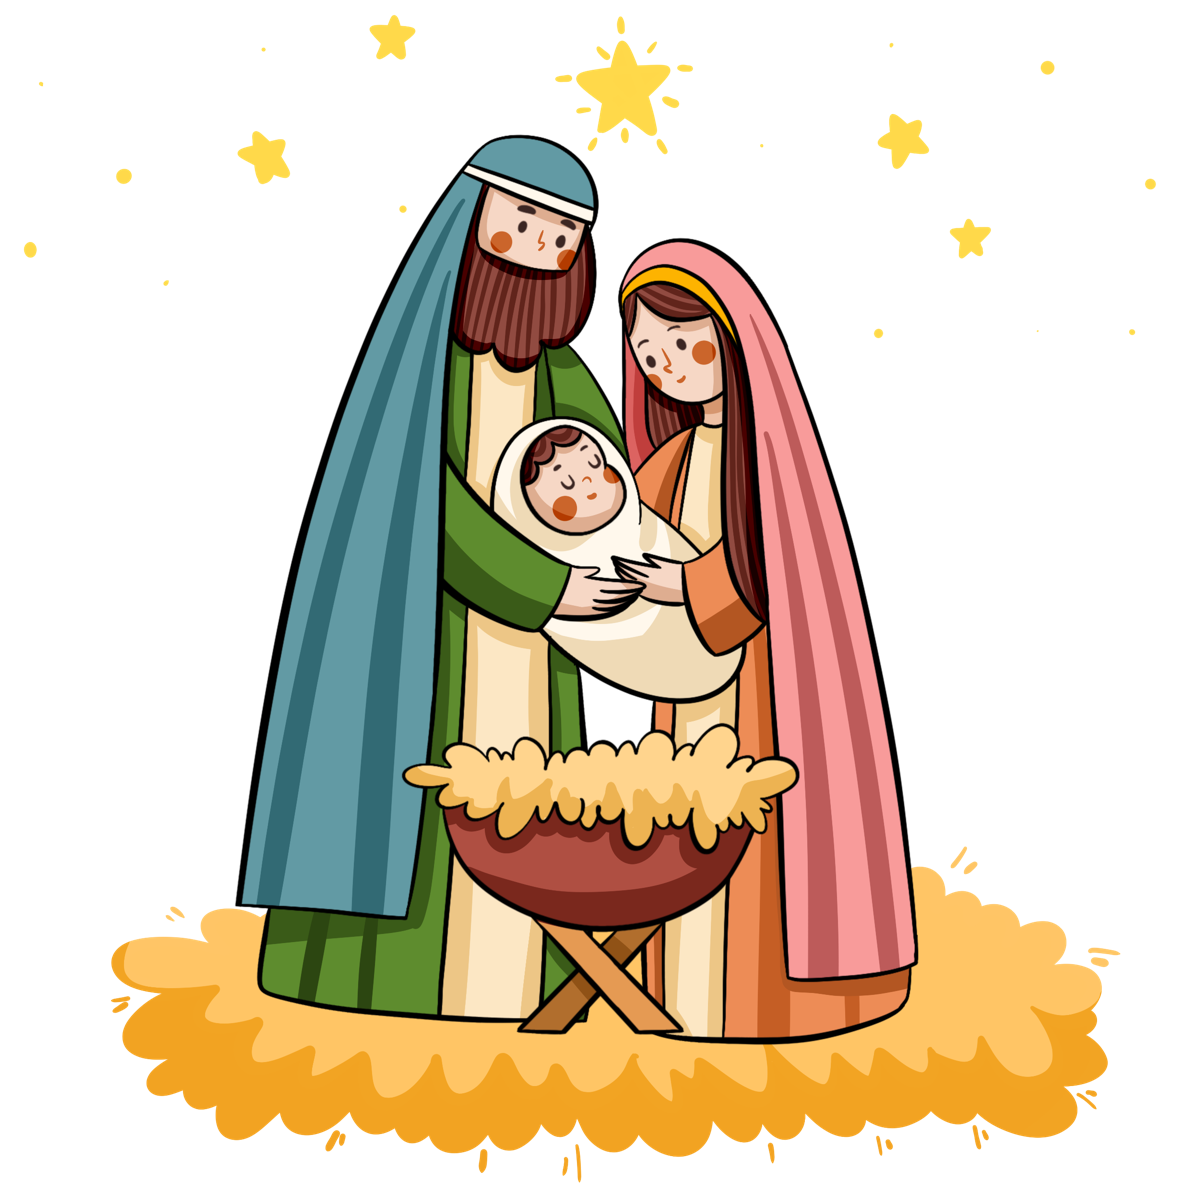
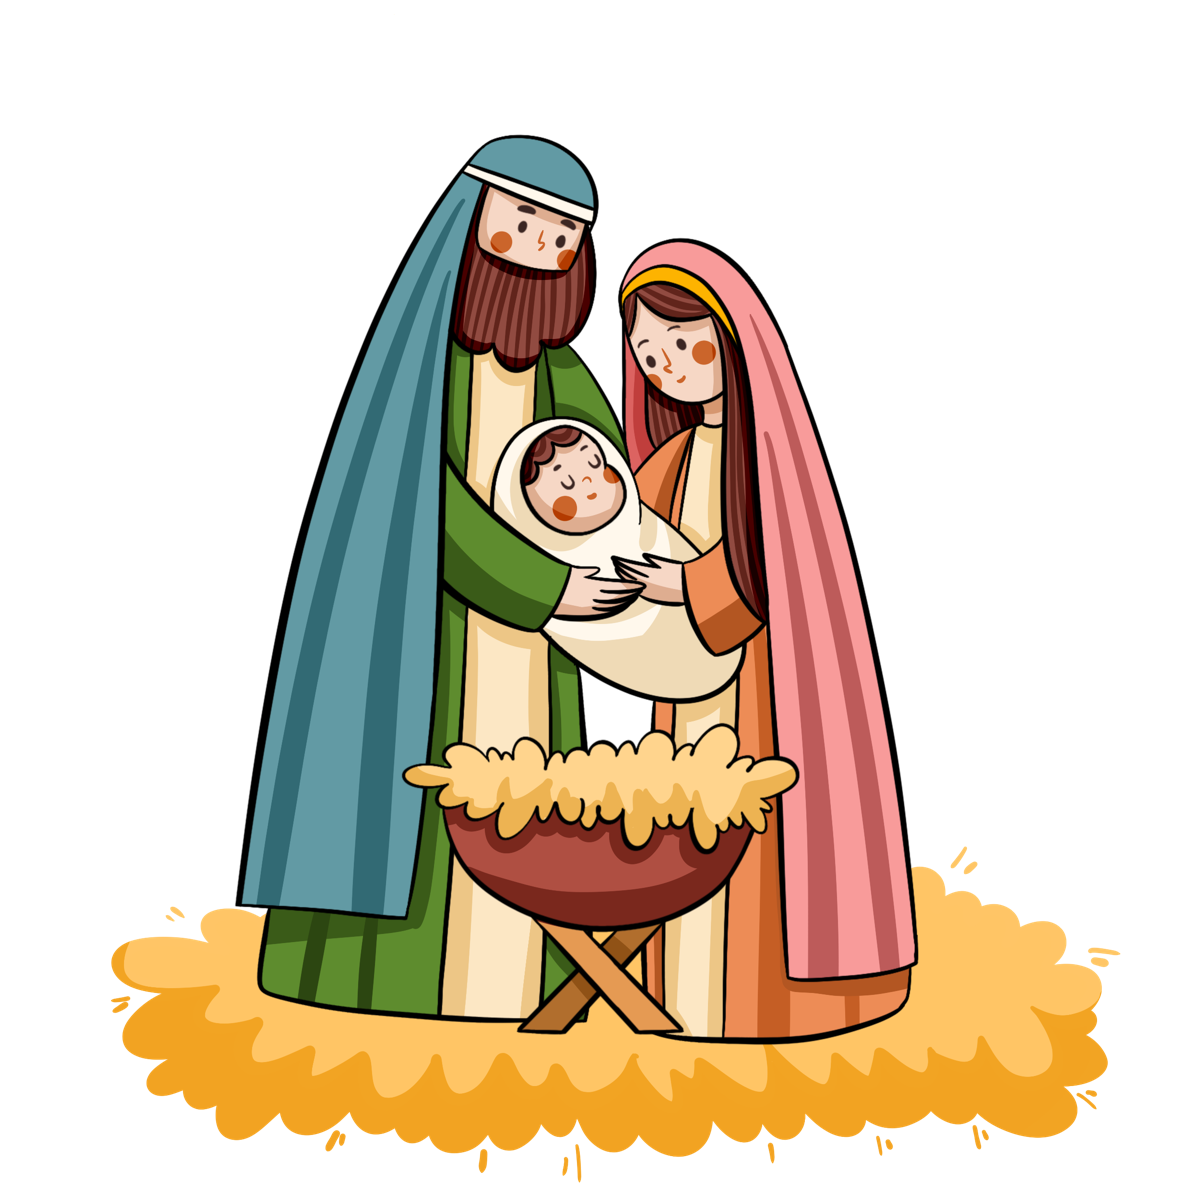
Remove stars from nativity and fix time

diff --git a/app/Http/Controllers/ShowCardController.php b/app/Http/Controllers/ShowCardController.php
@@ -53,9 +53,9 @@ class ShowCardController extends Controller
     {
         $name = base64_decode($data);
         $time = [
-            "٩ص", // Kobar
-            "١١ص", // So8ayarin
-            "٩ص أو ١١ص", // Both
+            "٩:٣٠ص", // Kobar
+            "١١:٣٠ص", // So8ayarin
+            "٩:٣٠ص أو ١١:٣٠ص", // Both
         ];
 
         $schoolYears = Name::query()

diff --git a/resources/views/cards/christmas2025.blade.php b/resources/views/cards/christmas2025.blade.php
@@ -32,9 +32,11 @@
 
         <div class="mt-2 text-lg">
             <span>{!! str($mass)->markdown() !!}</span>
+            <br>
             <span>{!! str($party)->markdown() !!}</span>
         </div>
 
+        <br>
         <div>
             <video preload="auto" class="object-fill" autoplay controls>
                 <source src="{{ $video }}" type="video/mp4">
